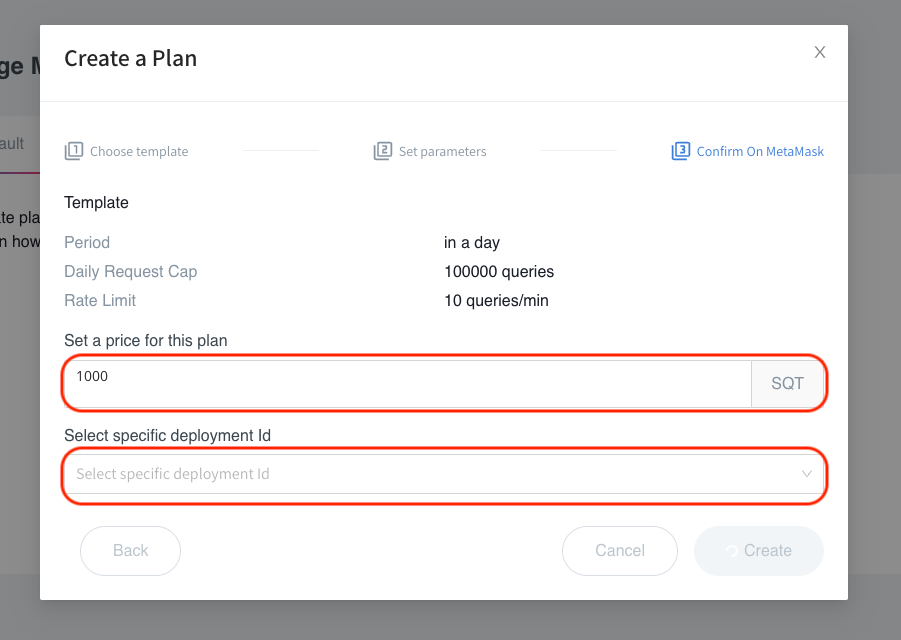
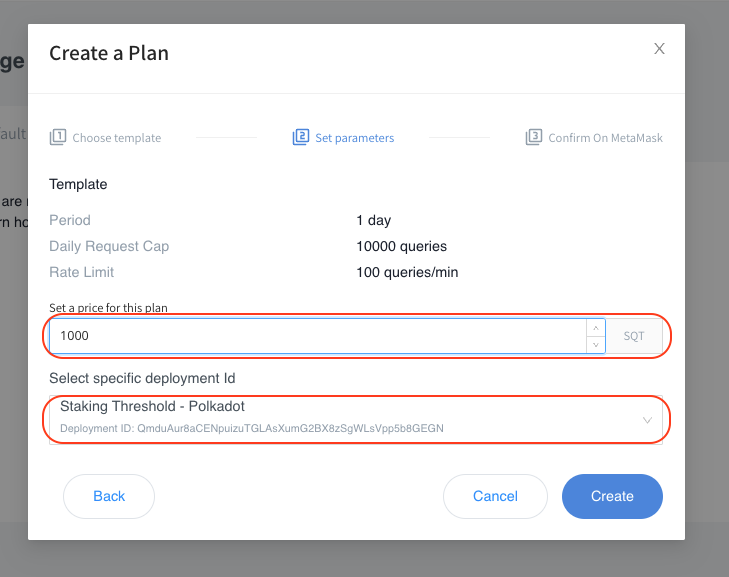
Updates season 3 challenges

diff --git a/docs/subquery_network/testnet/season3-challenges/season3.md b/docs/subquery_network/testnet/season3-challenges/season3.md
@@ -12,9 +12,9 @@
 
 To index a single project, please follow the instructions **[here](../../testnet/indexers/index-project.html).**
 
-### 2. (TBA) Index All Projects 
+### 2. Index all Projects 
 
-To index a single project, please follow the instructions **[here](../../testnet/indexers/index-project.html).**
+To index all project, please follow the instructions **[here](../../testnet/indexers/index-project.html).**
 
 ### 3. Maintain Daily Availability 
 
@@ -41,12 +41,12 @@ Reach out and ask for a Delegator to delegate to your indexer. Alternatively, se
 
 - You will see a pop up to confirm your transaction with Metamask. Click on `Confirm` and wait for a few seconds. <br />
 
-![Confirm Price for the Plan](/assets/img/confirm_price_of_plan.png) <br />
+<!--![Confirm Price for the Plan](/assets/img/confirm_price_of_plan.png) <br />
 
 ![Contract Information Confirmed](/assets/img/contract_info_confirmed.png) <br />
 
 ![Transaction Saved on Dashboard](/assets/img/transaction_saved_on_dashboard.png) <br />
-
+-->
 - Then you will see a default plan created in the `Default` tab. <br />
 
 ![Default plan created](/assets/img/default_plan_created.png) <br />
@@ -57,32 +57,47 @@ To create a deployment specific plan, navigate to `Plan & Offer` -> `My Plans`. 
 
 ![Create specific plan](/assets/img/set_specific_plan_parameters.png)
 
-The remaining steps are identical to [create a default plan](../season3-challenges/season3.html#_5-create-a-default-plan) from above with the plan appear in the `specific` tab.
+The remaining steps are identical to [create a default plan](../season3-challenges/season3.html#_5-create-a-default-plan) from above with the plan appearing in the `specific` tab.
+
+![Specific plan created](/assets/img/specific_plan_created.png)
 
 ### 7. Request a Consumer Purchase Your Plan 
 
 Reach out and ask for a Consumer to purchase your plan. Alternatively, set up another account and purchase your own plan. 
 
+Once this is done, the purchased plan will appear in  `Plan & Offer` -> `My Service Agreements`. The example here shows Consumer 0xB559... purchasing a plan from Indexer 0x5F36... aka `Sean Indexer 27Jun`.
+
+![Plan purchased](/assets/img/plan_purchased.png)
+
 ### 8. (TBA) Claim Your Reward 
 
+<!-- need to wait for at least an era before rewards can be claimed. -->
 
-### (TBA) Withdraw Unstaked Amount 
+
+### 9. (TBA) Withdraw Unstaked Amount 
 Here, an Indexer withdraws an unstaked amount from the staking contract back to an Indexer's wallet. 
 
 
-### 9. Request Undelegation from a Delegator
+### 10. Request Undelegation from a Delegator
 
 Reach out and ask for a Delegator to undelegate their tokens from your Indexer. 
 
-### 10. (TBA) Accept an offer in the offer market 
+### 11. (FIX) Accept an offer in the offer market 
+
+To accept an offer in the offer marketplace, navigate to `Plan & Offer` -> `Offer Marketplace`. Then select `Accept` in the last column.
+
+![Accept offer](/assets/img/accept_offer.png) <br />
+
+Ensure that you have passed the 3 criteria. Then click `Accept` and sign the Metamask transaction.
+
+![Accept offer screen](/assets/img/accept_offer_screen.png) <br />
+
+### 12. (TBA) Update controller account
 
 
-### 11. (TBA) Update controller account
+### 13. (TBA) Unregister your indexer
 
 
-### 12. (TBA) Unregister your indexer
-
-<br /><br />
 <hr />
 
 ## Delegator Challenges
@@ -136,7 +151,7 @@ Note that some Indexers cannot be delegated to until they collect all the early 
 
 ## Consumer Challenges
 
-### 1. (FIX) Create a purchase offer
+### 1. Create a purchase offer
 
 - To create a purchase offer, navigate to `Plan & Offer` -> `Manage My Offers`. Then select `Create an Offer`. <br />
 
@@ -146,20 +161,41 @@ Note that some Indexers cannot be delegated to until they collect all the early 
 
 ![Confirm approval](/assets/img/confirm_approval.png) <br />
 
+In step 1, find the SubQuery project deployment ID for this offer. 
+
 ![Create purchase offer](/assets/img/create_purchase_offer_steps.png) <br />
 
+Choose a template for this offer.
 
-### 2. (TBA) Get a Service Agreement from an Indexer 
+![Create purchase offer](/assets/img/create_purchase_offer_2.png) <br />
 
+Set the details of your offer. 
+- Indexer cap: the maximum number of Indexers desired to index your project.
+- Required deposit: Calculated automatically based on reward per Indexer x Indexer cap. 
+- Minimum indexed height: The blockheight the Indexer should starting indexing from.
+- Expiration time: How long the offer will be valid for.
 
+![Create purchase offer](/assets/img/create_purchase_offer_3.png) <br />
+
+Confirm the details of your purchase offer and then sign the transaction with Metamask.
+
+![Create purchase offer](/assets/img/create_purchase_offer_4.png) <br />
+
+The newly created purchase offer will appear in the `Open` tab.
+
+![Purchase offer created](/assets/img/purchase_offer_created.png) <br />
+
+### 2. Get a Service Agreement from an Indexer 
+
+Reach out and ask an Indexer to purchase your offer.  
 
 ### 3. (TBA) Cancel an Offer Before It Expires
 
 
-### 4. (TBA) Withdraw SQT locked in an Offer Aafter It Expires
+### 4. (TBA) Withdraw SQT locked in an Offer After It Expires
 
 
-### 5. (WIP) Purchase a Plan from an Indexer
+### 5. Purchase a Plan from an Indexer
 
 - To create a purchase a plan from an Indexer, navigate to `Explorer` and select a project of your choice. <br />
 
@@ -182,6 +218,6 @@ Rate Limt: <br />
 
 ![Confirm Purchase Plan](/assets/img/confirm_approval_purchase_plan.png) <br />
 
-- You will be notified with a screen showing the details of the plan you have chosen. Clcik on `Purchase`. <br />
+- You will be notified with a screen showing the details of the plan you have chosen. Click on `Purchase`. <br />
 
 ![Purchase plan](/assets/img/purchase_a_plan_details.png) <br />

diff --git a/docs/subquery_network/testnet/welcome.md b/docs/subquery_network/testnet/welcome.md
@@ -6,7 +6,9 @@ Welcome to [Frontier](https://frontier.subquery.network/), SubQuery's Testnet. L
 
 ### Explorer
 
-This area displays a list of projects that are being indexed.
+This area displays a list of all projects that are being indexed and where consumers can go to purchase plans. If no plans are listed, this means that the Indexer has not yet created a plan. Indexers also cannot purchase their own plans.
+
+![Purchase plans](/assets/img/purchase_plans.png)
 
 ### Studio
 
